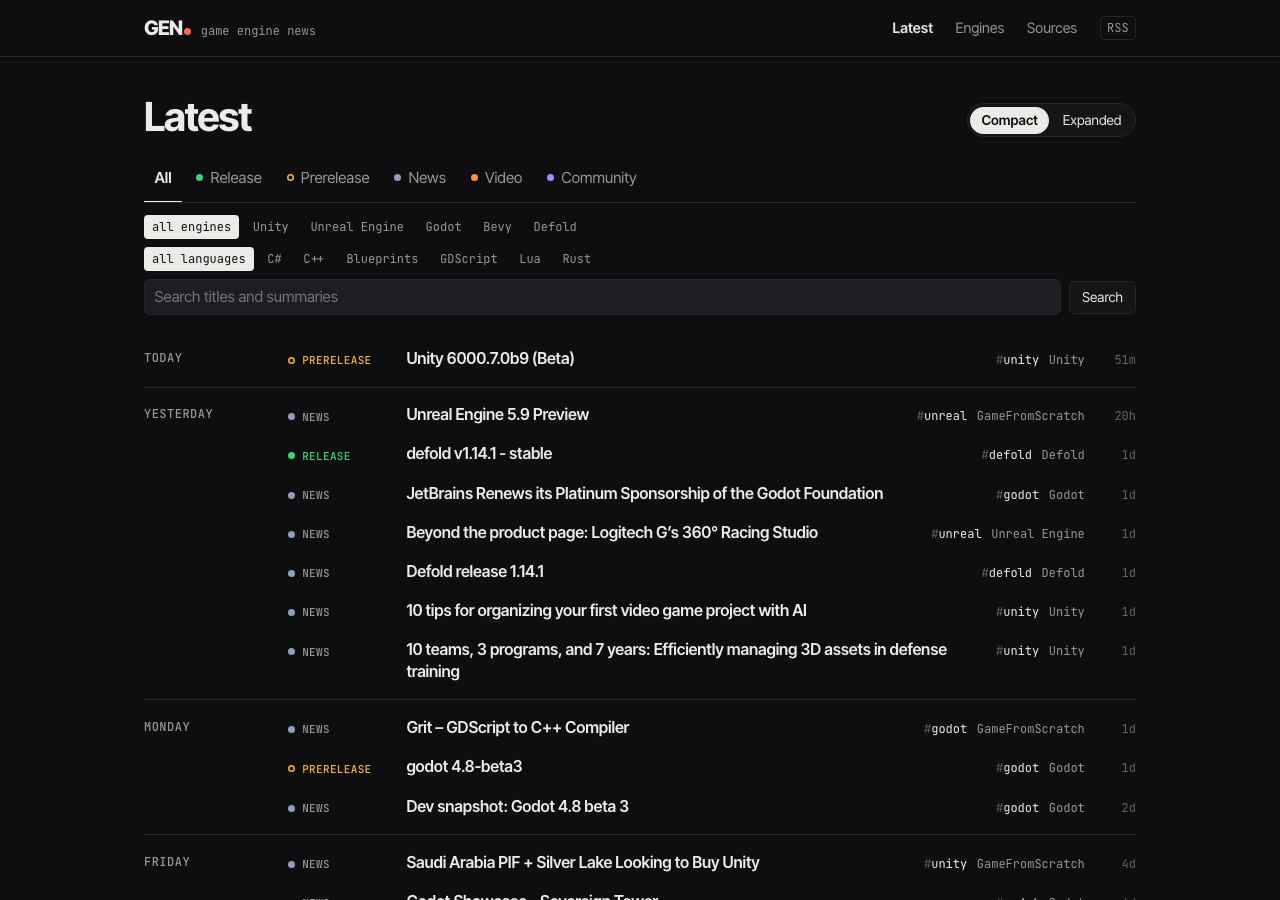
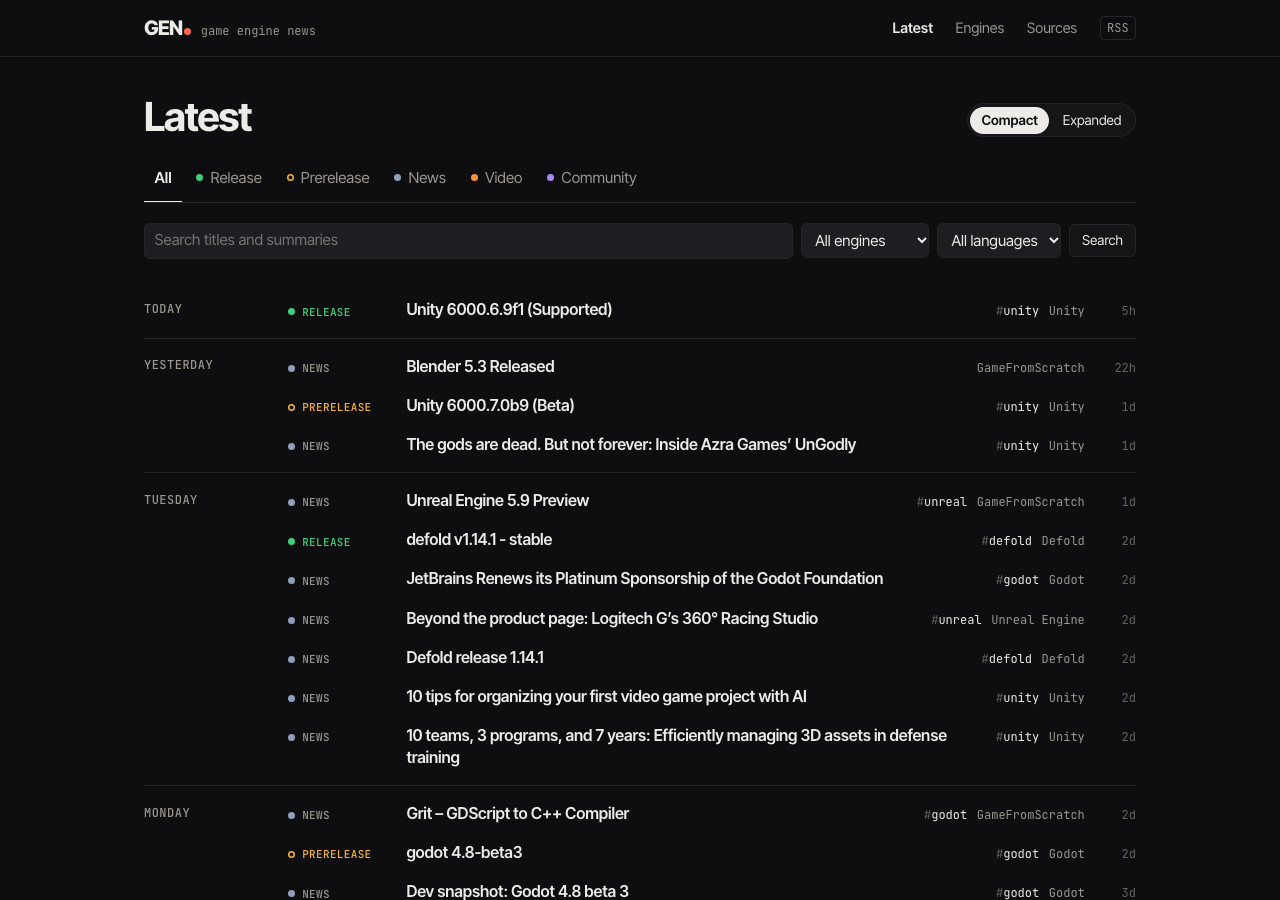
docs: retake the timeline screenshots with the filter toolbar
Refs #80

diff --git a/README.md b/README.md
@@ -12,7 +12,7 @@ GEN is a single Rust binary. It contains a web server and a background poller, a
 
 <picture>
   <source media="(prefers-color-scheme: dark)" srcset="docs/screenshots/timeline-dark.png">
-  <img alt="The GEN timeline: the latest releases and news from Unity, Unreal Engine, Godot, Bevy, Defold and GameFromScratch, grouped by day, with filters by kind, engine and language" src="docs/screenshots/timeline-light.png">
+  <img alt="The GEN timeline: the latest releases and news from Unity, Unreal Engine, Godot, Bevy, Defold and GameFromScratch, grouped by day, under kind tabs and a toolbar with a search box and engine and language dropdowns" src="docs/screenshots/timeline-light.png">
 </picture>
 
 ## Features
